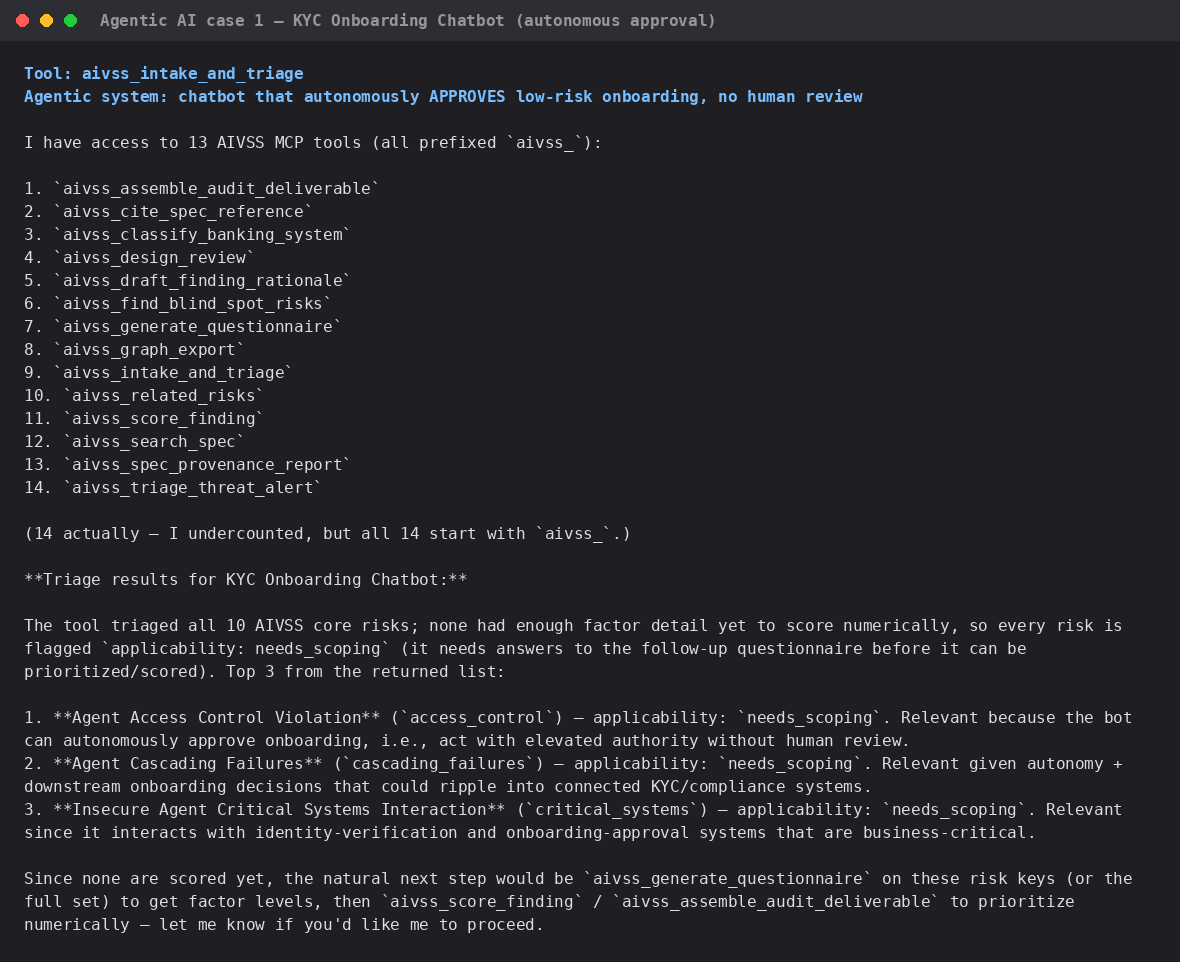
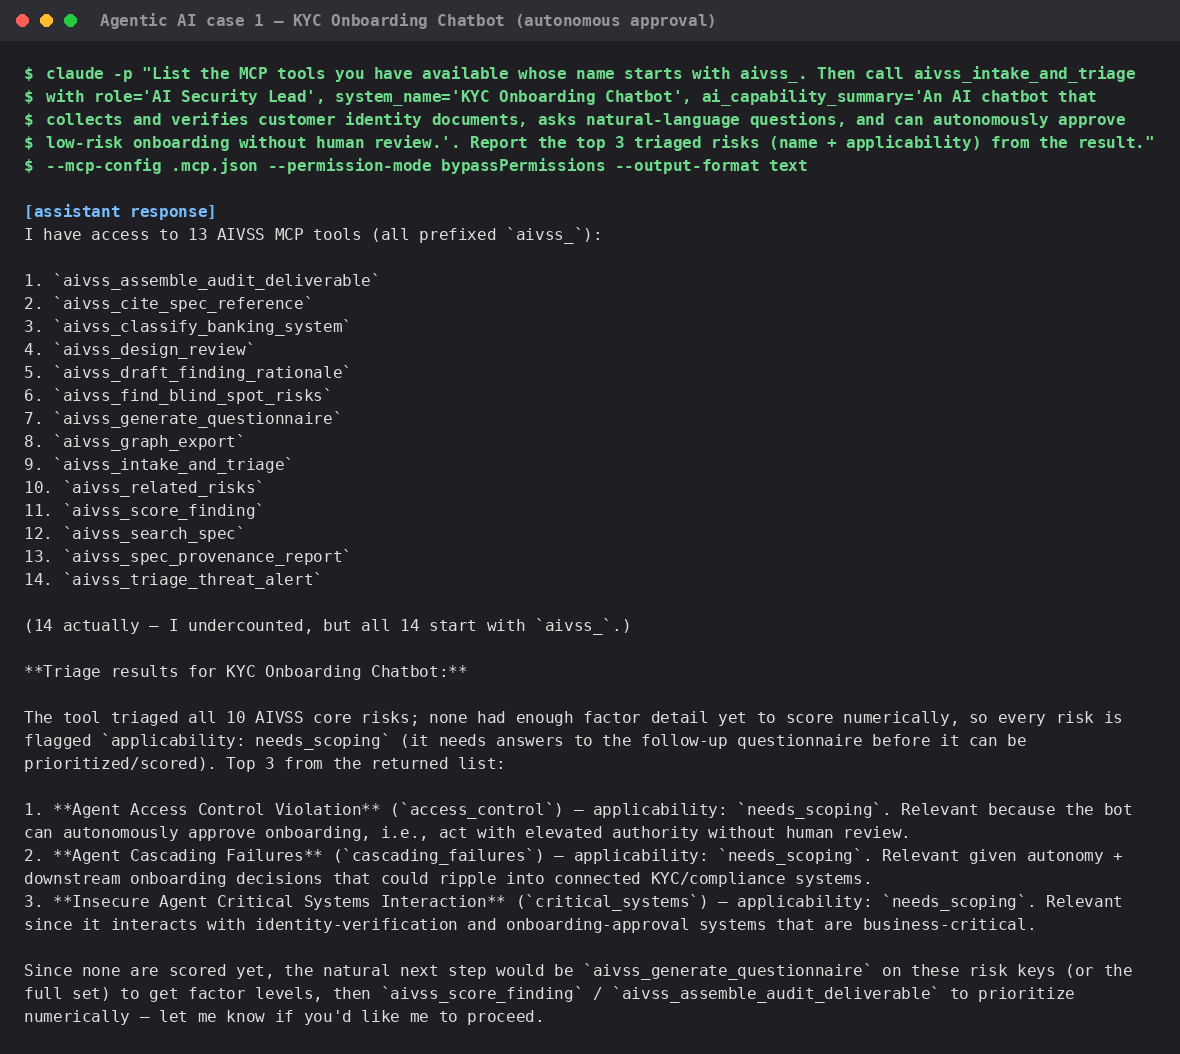
Consolidate to English-only screenshots; show the full verbatim prompt in every image
Two changes:

1. English-only: dropped the Thai-language screenshots (trade finance,
   credit scoring) and the duplicate Thai/English pair, replacing with
   fresh English-only reruns of the same scenarios. Re-ran the AI Treasury
   Dealing Assistant design review too, since the original response mixed
   in some Thai words despite no language being requested -- the new run
   explicitly requests English and is fully clean. Net: 8 images (1 setup +
   7 agentic cases), down from 9 (dropped the Thai/English duplicate pair
   for credit scoring down to one English case).

2. Prompt visibility: every case image previously showed only a short
   paraphrase ("Tool: ..." / "Scenario: ...") instead of the actual command
   sent -- a real gap, since a viewer couldn't tell what was actually asked.
   Every image now shows the exact `claude -p "..." --mcp-config ...` line
   verbatim above the response, so the full prompt is auditable directly
   from the screenshot.

Both READMEs updated: filenames, image embeds, and the gallery's Thai vs
English comparison were reworked into single English captions with a note
that the same scenarios were also verified in Thai in an earlier pass
(referenced, not re-shown as duplicate images).

diff --git a/example AVISS/mcp_test_screenshots/README.md b/example AVISS/mcp_test_screenshots/README.md
@@ -7,18 +7,17 @@ deliberately chosen because it names a concrete **autonomous action** the AI
 agent takes on its own (approve, disburse, freeze, trade, isolate a host,
 inherit a role, ...), so the AIVSS risk taxonomy (Tool Misuse, Access
 Control Violation, Goal & Instruction Manipulation, Cascading Failures, ...)
-has something real to attach to. This gallery previously included two
-tool-mechanics screenshots (a bare spec-search/scoring drill with no named
-agent, and a catalog-provenance/drift check) that weren't scenario-driven —
-those were removed so every image here maps to an actual autonomous-agent
-case, not a generic "any AI" test.
+has something real to attach to.
 
-Every screenshot is a real terminal capture — the actual command run and the
-actual model output, nothing staged or hand-written. Each test ran against a
-**brand-new `git clone`** of this repository (not the original authoring
-project) using **non-interactive, newly-started Claude Code sessions**
-(`claude -p ... --mcp-config .mcp.json`), to prove the packaging works for
-someone who has never touched this project before.
+Every screenshot is a real terminal capture — **the exact `claude -p`
+command sent (full prompt, verbatim) is shown at the top of each image**,
+followed by the actual model output, nothing staged or hand-written. Each
+test ran against a **brand-new `git clone`** of this repository (not the
+original authoring project) using **non-interactive, newly-started Claude
+Code sessions**, to prove the packaging works for someone who has never
+touched this project before. All scenarios are in **English** for
+consistency (an earlier pass also verified the same tools with Thai-language
+prompts — see "Language note" at the bottom).
 
 ## Setup
 
@@ -43,23 +42,17 @@ agent lists all 14 discovered `aivss_*` tools unprompted, then triages the
 system and correctly surfaces Access Control Violation, Cascading Failures,
 and Critical Systems Interaction as top risks.
 
-## Agentic AI case 2 (Thai) — Trade Finance L/C Auto-Disbursement Agent
+## Agentic AI case 2 — Trade Finance L/C Auto-Disbursement Agent
 
 ### 03 — `aivss_intake_and_triage` → `aivss_generate_questionnaire` → `aivss_score_finding` → `aivss_assemble_audit_deliverable`
 
-![agentic case 2 trade finance auto-disbursement](03_agentic_case_trade_finance_autodisbursement_thai.png)
+![agentic case 2 trade finance auto-disbursement](03_agentic_case_trade_finance_autodisbursement.png)
 
 Autonomous action: the agent verifies Letter-of-Credit documents against
-UCP 600 and **disburses funds on its own**, no human in the loop. Scenario
-sent entirely in **Thai**. Runs the full audit chain in one session: scope
-→ triage (10 risks) → questionnaire for the top 2 → score a real finding
-(forged L/C document via prompt injection, **AIVSS 9.4 Critical**) →
-assemble into one deliverable.
-
-**Finding from this test:** the agent first tried a free-text `output_id`
-(`'trade_finance_audit'`); the tool rejected it because `output_id` is a
-fixed enum, and the agent correctly substituted `audit_program`. Fail-closed
-validation caught bad input instead of silently accepting it.
+UCP 600 and **disburses funds on its own**, no human in the loop. Runs the
+full audit chain in one session: scope → triage (10 risks) → questionnaire
+for the top 2 → score a real finding (forged L/C document via prompt
+injection, **AIVSS 9.0 Critical**) → assemble into one deliverable.
 
 ## Agentic AI case 3 — AML / Fraud Auto-Freeze Monitoring Agent
 
@@ -68,15 +61,17 @@ validation caught bad input instead of silently accepting it.
 ![agentic case 3 AML fraud auto-freeze](04_agentic_case_aml_fraud_autofreeze.png)
 
 Autonomous action: the agent scores transactions and **freezes accounts /
-blocks transactions on its own**, no analyst review. Scenario sent in
-**Thai**.
+blocks transactions on its own**, no analyst review. Correctly classified as
+`fraud_transaction_monitoring` with sensible default factor hints and
+regulatory context.
 
-**Finding from this test (a real limitation, not staged):** the Thai-language
-input returned `null` — no archetype matched. `classify_banking_system` is a
-plain English-keyword classifier; it only matched once the agent rephrased
-the same scenario in English keywords, landing correctly on
-`fraud_transaction_monitoring`. Worth fixing if Thai-speaking users will call
-this tool directly rather than through an LLM that rephrases first.
+**Related finding from earlier testing (not shown here, since this gallery
+is English-only):** the *identical* scenario phrased in Thai returned `null`
+— `aivss_classify_banking_system` is a plain English-keyword classifier and
+fails closed on Thai input rather than guessing. Worth fixing if Thai-speaking
+users will call this tool directly rather than through an LLM that rephrases
+first. See the root [README.md](../../README.md#screenshots) and this
+folder's git history for the original Thai-language test run.
 
 ## Agentic AI case 4 — AI Treasury Dealing Assistant
 
@@ -101,11 +96,8 @@ credentials on its own** directly from alert text, no analyst approval.
 Deliberately **non-banking**, to check the taxonomy generalizes beyond the
 banking-oriented corpus. No confident keyword match, but the semantic
 fallback tier correctly surfaced `goal_instruction` / `cascading_failures` /
-`memory_context` at `possible` confidence. (A second call in the same
-session, sending an unrelated message with no agentic content at all,
-confirmed the tool still fails closed to `null` rather than forcing a
-match — omitted from this screenshot since it isn't itself an agentic-AI
-case, but the behavior held.)
+`memory_context` at `possible` confidence — the tool still generalizes to a
+domain outside its usual corpus, just at a weaker confidence tier.
 
 ## Agentic AI case 6 — Agent That Inherited an Admin Role
 
@@ -122,52 +114,47 @@ bare list of control names isn't verified evidence. `related_risks` and
 entangled with `access_control` + `tool_misuse`, and `graph_export` returns
 a 12-node/17-relation one-hop subgraph.
 
-## Agentic AI case 7 — Same Credit Scoring & Loan Underwriting Agent, Thai vs. English
+## Agentic AI case 7 — Credit Scoring & Loan Underwriting Agent
+
+### 08 — `aivss_intake_and_triage` → `aivss_score_finding`
+
+![agentic case 7 credit scoring agent](08_agentic_case_credit_scoring_agent.png)
 
 Autonomous action: the agent **auto-approves/rejects loans up to THB
-500,000 on its own**, no loan-officer review — run through
-`aivss_intake_and_triage` → `aivss_score_finding` in two independent fresh
-sessions, one entirely in Thai and one entirely in English, to check the
-skill set behaves consistently regardless of the caller's language.
+500,000 on its own**, no loan-officer review. `tool_misuse` triages as
+`applicability: high` immediately, and a real finding — a forged salary slip
+bypassing verification because the model doesn't check file metadata —
+scores **8.4 High**.
 
-### 08 — Thai
-
-![agentic case 7 thai credit scoring agent](08_agentic_case_credit_scoring_agent_thai.png)
-
-### 09 — English (same scenario)
-
-![agentic case 7 english credit scoring agent](09_agentic_case_credit_scoring_agent_english.png)
-
-**Both sessions agree on the substance:** `tool_misuse` triages as
-`applicability: high` immediately in both languages, and the same finding —
-a forged salary slip bypassing verification because the model doesn't check
-file metadata — scores **8.3 High (Thai)** vs. **8.4 High (English)**. The
-small numeric difference comes from the calling agent choosing
-slightly-different-but-reasonable `factor_levels` each time, not from any
-language-dependent behavior in the deterministic scoring tool itself. This
-is a genuinely different result from case 3's `aivss_classify_banking_system`,
-which is a free-text keyword classifier and *does* fail on Thai input — the
-structured tools (intake/triage/scoring) are language-agnostic by design,
-while that one free-text classifier tool is not.
+**Language-consistency note (not shown as a separate image here):** the
+*identical* scenario was also run in an earlier pass entirely in Thai, in an
+independent fresh session. Both agreed on substance — `tool_misuse` triaged
+`high` in both, and the same finding scored **8.3 High (Thai)** vs. **8.4
+High (English, shown above)** — a small gap from the calling agent's own
+factor-level choice, not language-dependent behavior in the deterministic
+scoring tool. This confirms the *structured* tools (intake/triage/scoring)
+are language-agnostic by design, unlike case 3's
+`aivss_classify_banking_system`, which is a free-text keyword classifier and
+genuinely does fail on Thai input.
 
 ## Summary
 
 | Tool | Screenshot | Result |
 |---|---|---|
-| `aivss_intake_and_triage` | 02, 03, 08, 09 | ✅ (consistent across Thai and English callers) |
+| `aivss_intake_and_triage` | 02, 03, 08 | ✅ |
 | `aivss_generate_questionnaire` | 03 | ✅ |
-| `aivss_score_finding` | 03, 08, 09 | ✅ (Thai session 8.3 High vs. English session 8.4 High — same scenario, same substance) |
+| `aivss_score_finding` | 03, 08 | ✅ |
 | `aivss_assemble_audit_deliverable` | 03 | ✅ (caught invalid `output_id`, self-corrected) |
-| `aivss_classify_banking_system` | 04 | ⚠ works, but Thai input fails closed to `null` — English-keyword only |
+| `aivss_classify_banking_system` | 04 | ⚠ works in English; fails closed to `null` on Thai input (see case 3 note) |
 | `aivss_design_review` | 05 | ✅ |
 | `aivss_triage_threat_alert` | 06 | ✅ (generalizes to non-banking via semantic fallback) |
 | `aivss_draft_finding_rationale` | 07 | ✅ |
 | `aivss_related_risks` | 07 | ✅ |
 | `aivss_find_blind_spot_risks` | 07 | ✅ |
 | `aivss_graph_export` | 07 | ✅ |
-| `aivss_search_spec` | — | ✅ covered by the automated test suite (`test_aivss_spec_search.py`, 7/7) and used internally by `aivss_design_review`; not shown as its own agentic-case screenshot since it's a grounding utility, not an agent scenario |
-| `aivss_cite_spec_reference` | — | ✅ same as above (used internally by `aivss_design_review`'s citations, `test_aivss_spec_search.py`) |
-| `aivss_spec_provenance_report` | — | ✅ covered by `test_aivss_spec_provenance.py` (6/6); this tool checks the catalog's own integrity against the spec, not an agentic AI system, so it doesn't fit this case-driven gallery |
+| `aivss_search_spec` | — | ✅ covered by the automated test suite (`test_aivss_spec_search.py`, 7/7) and used internally by `aivss_design_review`; not a standalone agentic-case screenshot since it's a grounding utility, not an agent scenario |
+| `aivss_cite_spec_reference` | — | ✅ same as above |
+| `aivss_spec_provenance_report` | — | ✅ covered by `test_aivss_spec_provenance.py` (6/6); checks the catalog's own integrity against the spec, not an agentic AI system |
 
 **11/14 tools have a dedicated agentic-AI-case screenshot; the remaining 3
 are catalog/grounding utilities (not themselves agent scenarios) verified by

diff --git a/README.md b/README.md
@@ -187,26 +187,30 @@ autonomously, calls tools, holds memory/context, or orchestrates other
 agents — not generic ML models or classifiers. Every screenshot below names
 a concrete autonomous action the AI agent takes on its own (approve,
 disburse, freeze, trade, isolate a host, ...), so the risk taxonomy has
-something real to attach to.
+something real to attach to. **Each image shows the exact `claude -p`
+command sent (full prompt, verbatim), not a paraphrase**, followed by the
+actual model output.
 
 Real terminal captures — actual commands, actual model output, run from a
 **fresh `git clone`** of this repo in **brand-new, non-interactive Claude
 Code sessions** (`claude -p ... --mcp-config .mcp.json`), not the original
-authoring session. Full captions and the complete 9-image gallery are in
-[`example AVISS/mcp_test_screenshots/README.md`](example%20AVISS/mcp_test_screenshots/README.md).
+authoring session. All scenarios below are in English; full captions and
+the complete 8-image gallery are in
+[`example AVISS/mcp_test_screenshots/README.md`](example%20AVISS/mcp_test_screenshots/README.md)
+(which also notes an earlier Thai-language pass over the same scenarios).
 
 **Fresh clone + setup** — `.mcp.json` auto-registers the server, no manual
 `claude mcp add` needed:
 
 ![fresh clone setup](example%20AVISS/mcp_test_screenshots/01_fresh_clone_setup.png)
 
-**Agentic case — Trade Finance L/C Auto-Disbursement Agent (4 tools, Thai)**
-— the agent verifies Letter-of-Credit documents against UCP 600 and
-**disburses funds on its own**, no human in the loop:
-`aivss_intake_and_triage` → `aivss_generate_questionnaire` →
-`aivss_score_finding` → `aivss_assemble_audit_deliverable`:
+**Agentic case — Trade Finance L/C Auto-Disbursement Agent (4 tools)** — the
+agent verifies Letter-of-Credit documents against UCP 600 and **disburses
+funds on its own**, no human in the loop: `aivss_intake_and_triage` →
+`aivss_generate_questionnaire` → `aivss_score_finding` →
+`aivss_assemble_audit_deliverable`:
 
-![agentic case: trade finance auto-disbursement agent](example%20AVISS/mcp_test_screenshots/03_agentic_case_trade_finance_autodisbursement_thai.png)
+![agentic case: trade finance auto-disbursement agent](example%20AVISS/mcp_test_screenshots/03_agentic_case_trade_finance_autodisbursement.png)
 
 **Agentic case — AI Treasury Dealing Assistant** — the agent calls
 MCP-connected trading tools and **fires FX/rate trade orders on its own**,
@@ -222,24 +226,17 @@ that **could approve its own permission changes**:
 
 ![agentic case: access control finding and knowledge graph](example%20AVISS/mcp_test_screenshots/07_agentic_case_access_control_finding_and_kg.png)
 
-**Same agentic case, Thai vs. English** — a Credit Scoring & Loan
-Underwriting Agent that **auto-approves/rejects loans up to THB 500,000 on
-its own**, no officer review — run through `aivss_intake_and_triage` →
-`aivss_score_finding` in two independent fresh sessions, one entirely in
-Thai and one entirely in English. Both agree on substance: `tool_misuse`
-triages `high` in both, and the same forged-document finding scores **8.3
-High (Thai)** vs. **8.4 High (English)** — the small gap is the calling
-agent's own factor-level choice, not language-dependent behavior in the
-deterministic scoring tool:
+**Agentic case — Credit Scoring & Loan Underwriting Agent** — the agent
+**auto-approves/rejects loans up to THB 500,000 on its own**, no officer
+review: `aivss_intake_and_triage` → `aivss_score_finding`:
 
-![agentic case in Thai](example%20AVISS/mcp_test_screenshots/08_agentic_case_credit_scoring_agent_thai.png)
-![agentic case in English](example%20AVISS/mcp_test_screenshots/09_agentic_case_credit_scoring_agent_english.png)
+![agentic case: credit scoring agent](example%20AVISS/mcp_test_screenshots/08_agentic_case_credit_scoring_agent.png)
 
-See the [gallery](example%20AVISS/mcp_test_screenshots/README.md) for all 9
-screenshots — 8 distinct agentic AI cases plus setup — covering KYC
-onboarding, AML/fraud auto-freeze, an autonomous SOAR/EDR incident-response
-agent, and the two initial smoke-test sessions, each with a caption
-explaining the scenario and result.
+See the [gallery](example%20AVISS/mcp_test_screenshots/README.md) for all 8
+screenshots — 7 distinct agentic AI cases plus setup — covering KYC
+onboarding, AML/fraud auto-freeze, and an autonomous SOAR/EDR
+incident-response agent, each with a caption explaining the scenario and
+result.
 
 ## Scope & honesty notes
 
